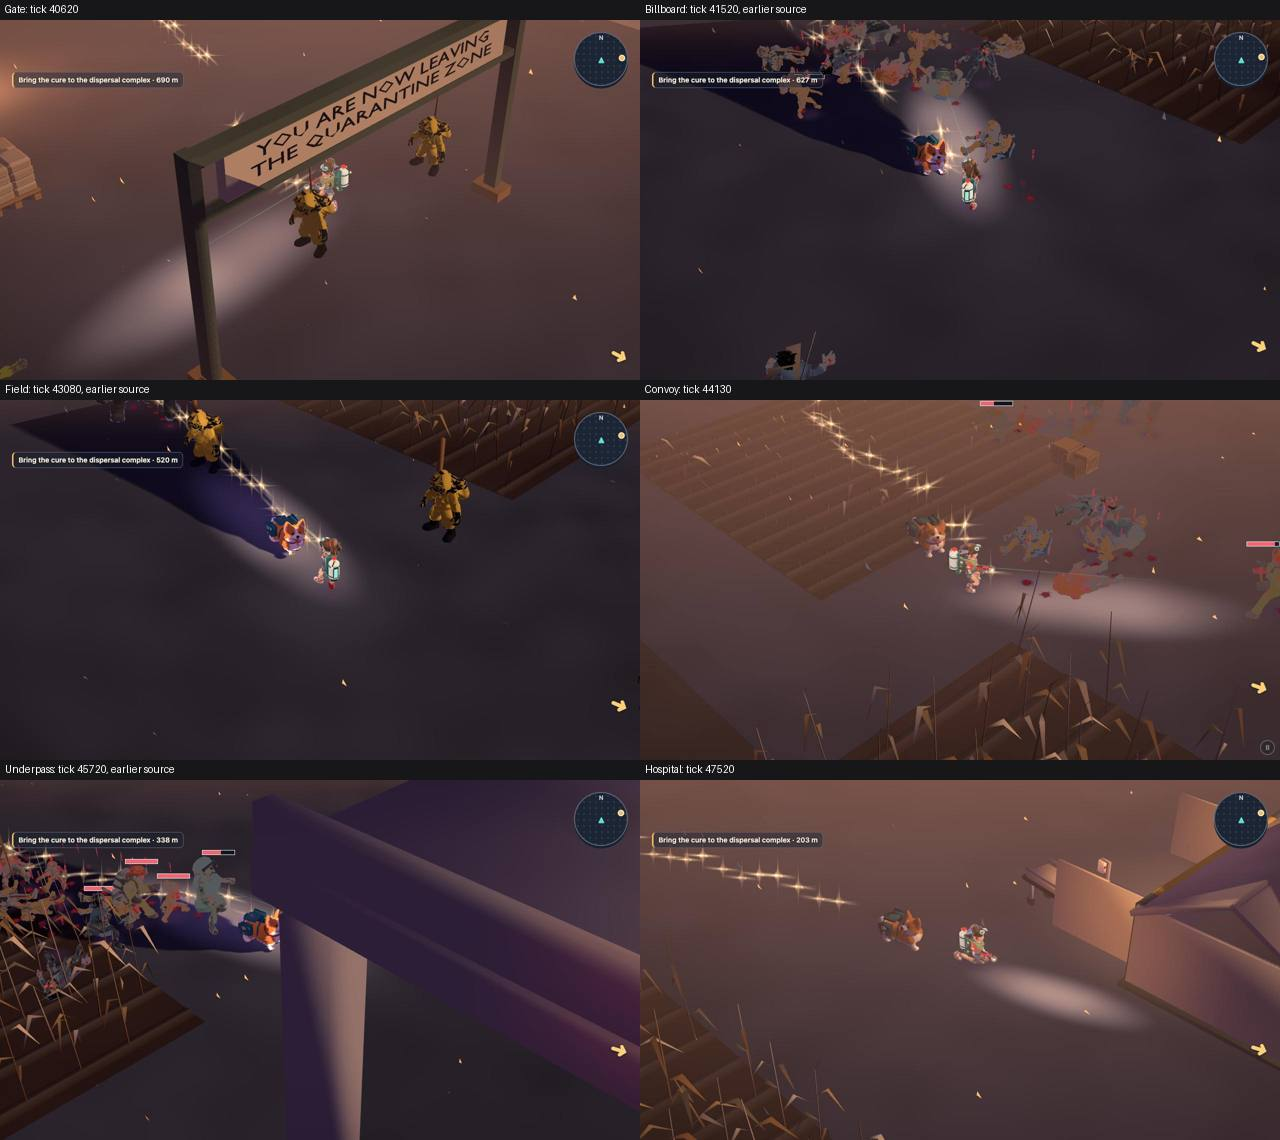
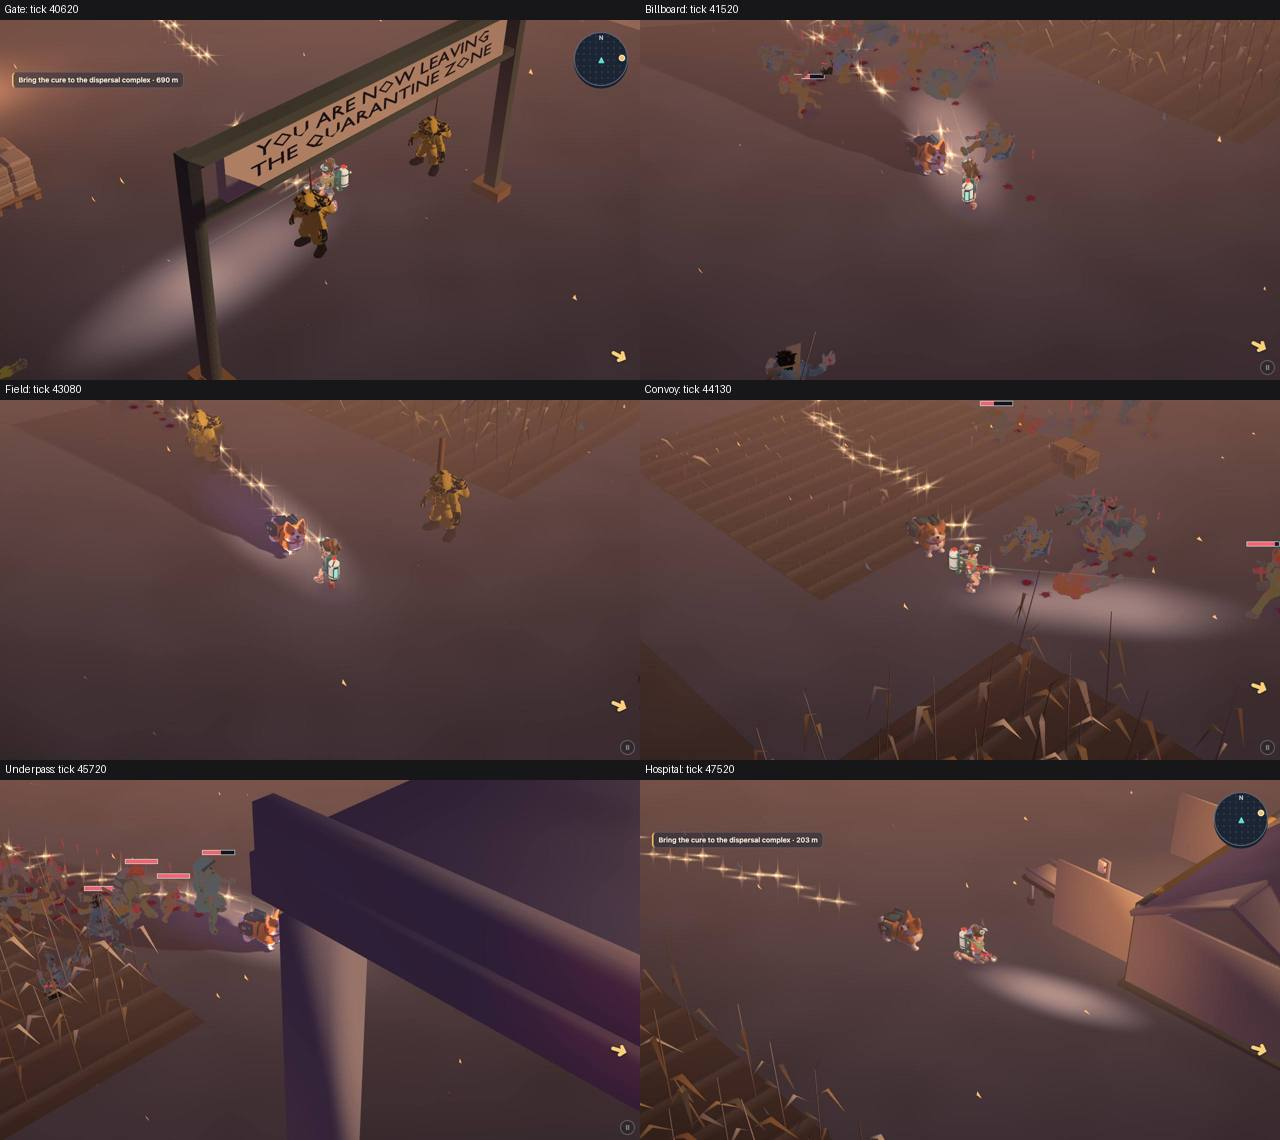
Refresh native scene diagnostics on current source

diff --git a/docs/reports/s186-l10setpieces/README.md b/docs/reports/s186-l10setpieces/README.md
@@ -164,7 +164,7 @@ This is not a completion report. The seven linked views are staged diagnostics, 
 
 - Rebuilt all three supplied tent LODs with the gable panels and repeated the shared entrance trial using the ordinary foreground cut. Native HIGH tick 47550–47680 still showed infected exposed inside the cut tent, without a readable emergence. This trial was also reverted; the asset optimizer's unrelated layout changes were restored.
 
-- [Six-view native HIGH diagnostic sheet](native-six-diagnostic.jpg): all views use the follow camera at zoom 1 and the seed 1 complete bot with ordinary retries. The gate and hospital are from the current placements; the billboard, field and underpass views predate the later haze and placement commits, so they are historical diagnostics rather than current-source acceptance. Gate: readable sign and two effigies, but no burst. Billboard: bodies visible after the fall tick, board and crowd reveal outside frame. Field: two fixed figures; no tearing free. Convoy: at tick 44130 the courier fires toward bodies and an infected at the edge, with crates nearby; no recognizable burning convoy or three-sided fight. Underpass: foreground structure hides the courier, with a crowd behind; crawlers and torch effect cannot be assessed. Hospital: flaps and stretcher appear at the edge, but no silhouettes or emergence. None of these six images accepts the requested moment. The convoy capture is from the current source, sampled every 30 ticks during the actual route, without relocation or invulnerability.
+- [Six-view native HIGH diagnostic sheet](native-six-diagnostic.jpg): all views use the current placements and lighting, follow camera at zoom 1 and the seed 1 complete bot with ordinary retries. Gate: readable sign and two effigies, but no burst. Billboard: bodies visible after the fall tick, board and crowd reveal outside frame. Field: two fixed figures; no tearing free. Convoy: at tick 44130 the courier fires toward bodies and an infected at the edge, with crates nearby; no recognizable burning convoy or three-sided fight. Underpass: foreground structure hides the courier, with a crowd behind; crawlers and torch effect cannot be assessed. Hospital: flaps and stretcher appear at the edge, but no silhouettes or emergence. None of these six images accepts the requested moment. The convoy capture was sampled every 30 ticks during the actual route, without relocation or invulnerability; the billboard, field and underpass were recaptured at their earlier sampled ticks on the current source.
 
 ## Time-box disposition
 
